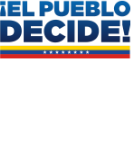
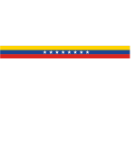
Look actualizado

Changed region(s): [[0.0, 0.0, 1.0, 0.2744]]

diff --git a/lib/style-16j.css b/lib/style-16j.css
@@ -22,7 +22,7 @@ div#header {
 	position:absolute;
 	z-index:49;
 	top:-110px;
-	background:#000 url(../res/back_dark.png);
+	background:#0b2f54;
 }
 div#header > div {
 	width:450px;
@@ -66,7 +66,7 @@ div#header div#PasosMenu > div.active {
 	height:115px;
 }
 div#header div#PasosMenu > div.active > div {
-	border-top:solid 4px #ffcc00;
+	border-top:solid 4px #fff;
 	padding:26px 15px 42px 15px;
 }
 div#header div#PasosMenu > div.active:before {
@@ -141,7 +141,7 @@ div#header div#PasosMenu > div.active:before {
 /*--------*/
 
 #PasoInicio {
-	background:#000 url(../res/back_dark.png);
+	background:#0b2f54;
 	color:#FFF;
 	position:relative;
 }
@@ -178,8 +178,8 @@ div#header div#PasosMenu > div.active:before {
 	text-align:center;
 }
 #PasoInicio #BotonInicio.active {
-	box-shadow:0 0 5px rgba(255,204,0,.07),
-		0 1px 30px rgba(255,204,0,.1);
+	box-shadow:0 0 5px rgba(0,0,0,.07),
+		0 1px 30px rgba(0,0,0,.1);
 }
 #PasoInicio #BotonInicio > span {
 	display:block;
@@ -620,7 +620,7 @@ div#header div#PasosMenu > div.active:before {
 /*----------*/
 
 #PasoFin {
-	background:#000 url(../res/back_dark.png);
+	background:#0b2f54;
 	color:#FFF;
 	position:relative;
 }
@@ -846,7 +846,7 @@ div#header div#PasosMenu > div.active:before {
 	position:absolute;
 	top:0px;
 	left:0px;
-	background:rgba(0,0,0,0.8);
+	background:rgba(11,47,84,0.8);
 	z-index:200;
 	display:none;
 }

diff --git a/lib/func-16j.js b/lib/func-16j.js
@@ -255,7 +255,7 @@ function goTo3() {
 		.stop()
 		.css({top:'-300px',opacity:'0.0'})
 		.animate({top:'-70px',opacity:'1.0'},1000)
-		.animate({top:'-60px'},1000,
+		.animate({top:'-60px'},200,
 		function(){
 			$('#Paso3Back').fadeIn(1000);
 		})
